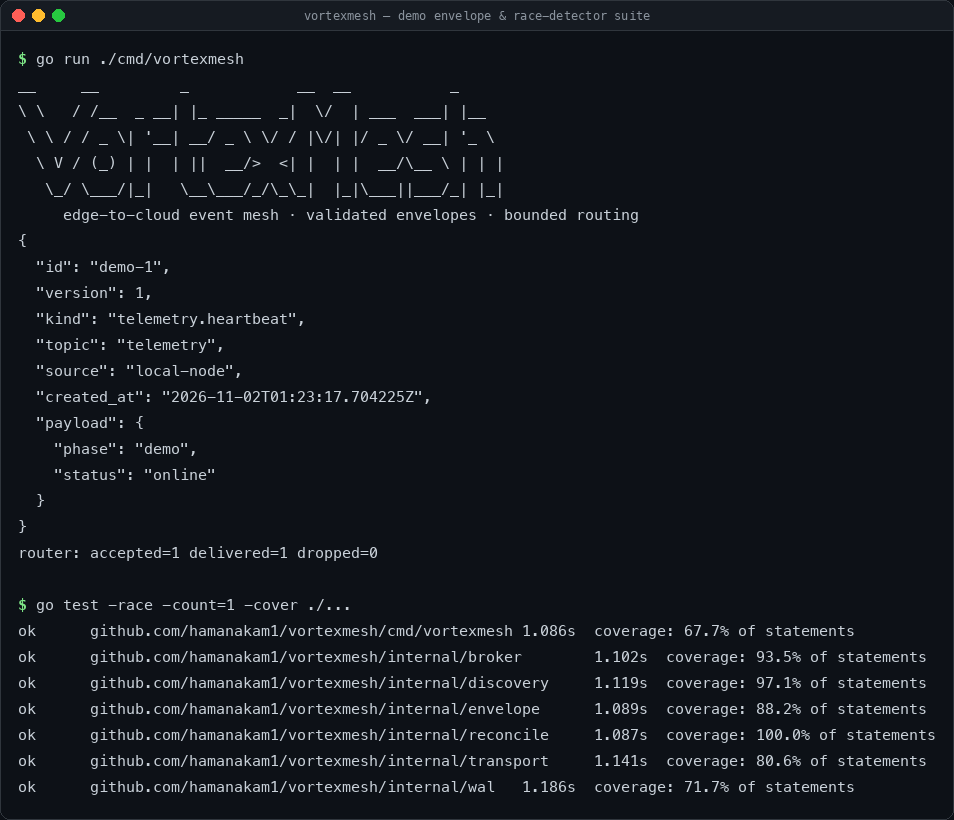
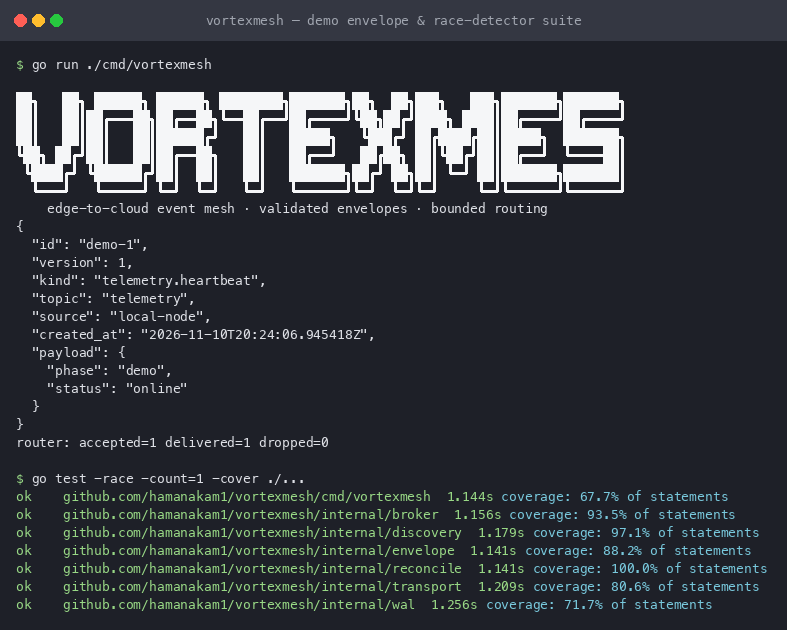
deps: upgrade quic-go to v0.65, x/crypto and x/net to latest; fix Dependabot alerts
- quic-go v0.48.2 -> v0.65.0: Connection/Stream are now concrete *quic.Conn
  and *quic.Stream types; the e2e mTLS handshake test validates the migration
- golang.org/x/crypto -> v0.58.1-dev snapshot that clears GO-2026-5932
- golang.org/x/net -> v0.62.0
- minimum Go is now 1.26 (required by quic-go v0.65); CI matrix and README
  badge updated accordingly
- add Dependabot config (gomod + actions, weekly) so this cannot go stale again
- regenerate the README screenshot: box-drawing banner, fresh race/cover output

Changed region(s): [[0.0, 0.0, 1.0, 0.6333], [0.0, 0.6635, 0.9759, 0.9651]]

diff --git a/internal/transport/server.go b/internal/transport/server.go
@@ -112,7 +112,7 @@ func (s *Server) Serve(ctx context.Context) error {
 // listener's error.
 func (s *Server) Close() error { return s.listener.Close() }
 
-func (s *Server) serveConnection(ctx context.Context, conn quic.Connection) {
+func (s *Server) serveConnection(ctx context.Context, conn *quic.Conn) {
 	defer func() { _ = conn.CloseWithError(0, "") }()
 	for {
 		stream, err := conn.AcceptStream(ctx)
@@ -123,7 +123,7 @@ func (s *Server) serveConnection(ctx context.Context, conn quic.Connection) {
 	}
 }
 
-func (s *Server) serveStream(ctx context.Context, stream quic.Stream) {
+func (s *Server) serveStream(ctx context.Context, stream *quic.Stream) {
 	defer func() { _ = stream.Close() }()
 
 	msg, err := ReadEnvelope(stream)
@@ -137,7 +137,7 @@ func (s *Server) serveStream(ctx context.Context, stream quic.Stream) {
 }
 
 // Dial opens a QUIC connection to addr using the given client TLS config.
-func Dial(ctx context.Context, addr string, tlsConfig *tls.Config) (quic.Connection, error) {
+func Dial(ctx context.Context, addr string, tlsConfig *tls.Config) (*quic.Conn, error) {
 	return quic.DialAddr(ctx, addr, tlsConfig, &quic.Config{
 		MaxIdleTimeout:  idleTimeout,
 		KeepAlivePeriod: idleTimeout / 3,

diff --git a/README.md b/README.md
@@ -17,7 +17,7 @@
 
 <p align="center">
   <a href="https://github.com/hamanakam1/VortexMesh/actions/workflows/ci.yml"><img alt="CI" src="https://github.com/hamanakam1/VortexMesh/actions/workflows/ci.yml/badge.svg"></a>
-  <img alt="Go version" src="https://img.shields.io/badge/go-1.23%2B-00ADD8?logo=go&logoColor=white">
+  <img alt="Go version" src="https://img.shields.io/badge/go-1.26%2B-00ADD8?logo=go&logoColor=white">
   <img alt="License" src="https://img.shields.io/badge/license-MIT-blue">
   <a href="https://github.com/hamanakam1/VortexMesh/releases"><img alt="Releases" src="https://img.shields.io/github/v/release/hamanakam1/VortexMesh"></a>
 </p>
@@ -35,7 +35,7 @@ claim in this README is backed by a test you can run.
 
 ## Quick start
 
-Requires Go 1.23 or newer. There is no cgo dependency; SQLite is the pure-Go
+Requires Go 1.26 or newer. There is no cgo dependency; SQLite is the pure-Go
 `modernc.org/sqlite` driver, so cross-compilation works out of the box.
 
 ```sh

diff --git a/CONTRIBUTING.md b/CONTRIBUTING.md
@@ -9,7 +9,7 @@ the bar for a change is "can a reader follow it without extra context?"
 make check      # tidy, gofmt check, vet, build, test -race
 ```
 
-That is exactly what CI runs on Go 1.23 and the latest stable release. If
+That is exactly what CI runs on Go 1.26 and the latest stable release. If
 `make check` passes locally, CI should pass too.
 
 ## Ground rules
